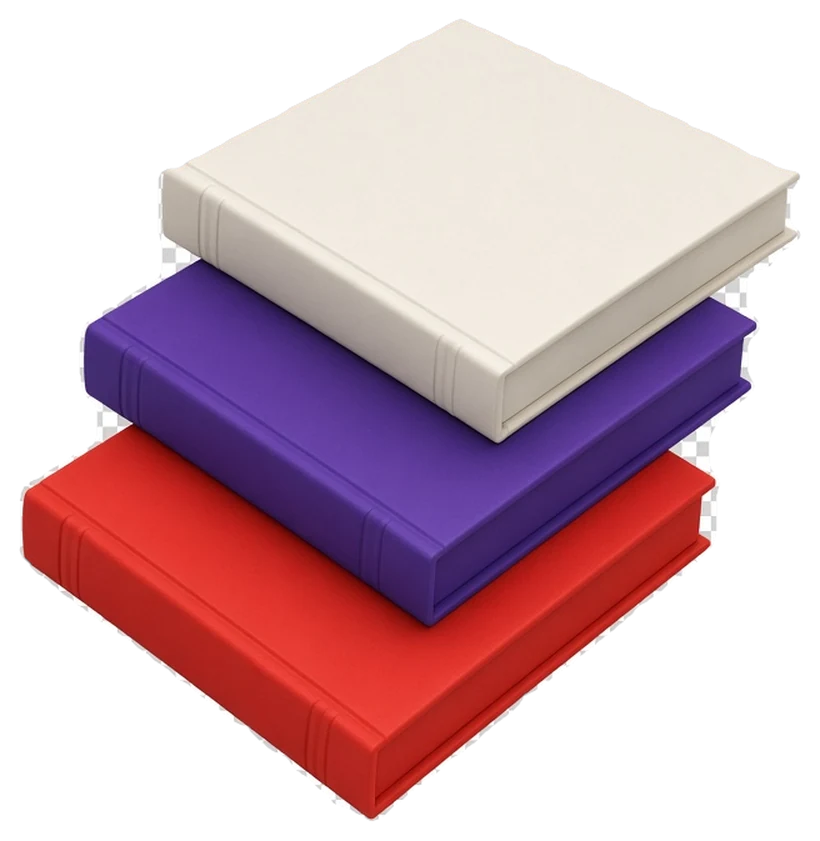
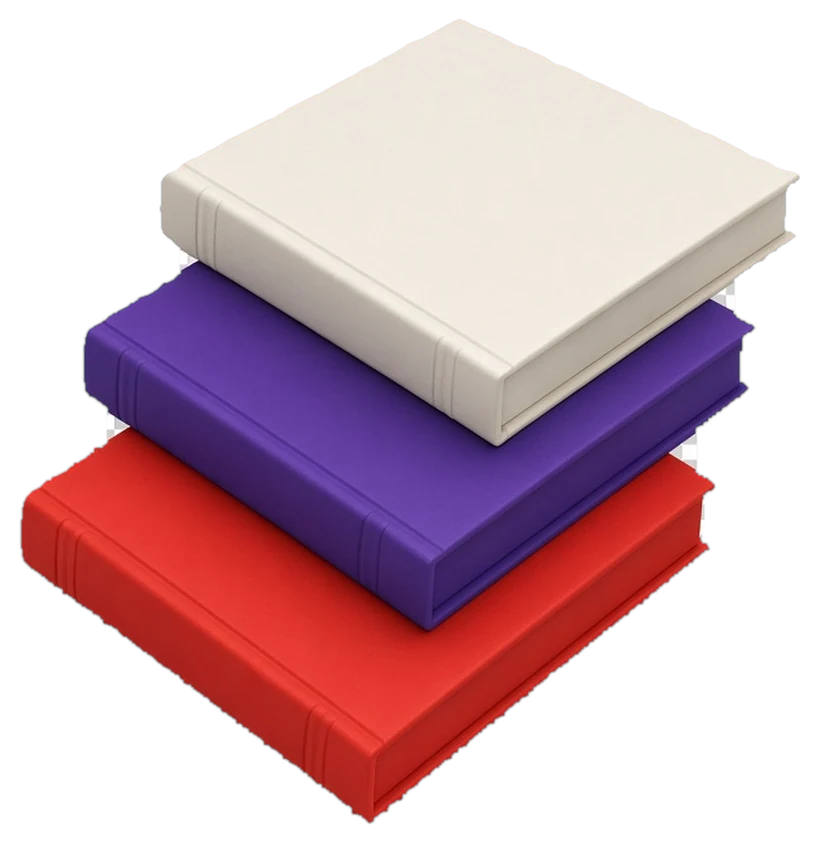
Clear the checker that clung to the outlines; drop fan-kit
A patch of checkerboard survived every test above and sat on the silhouette,
beside the bone-white parts where each test in turn loses its nerve. Near the
boundary the question can be settled on colour alone, with no reference to a
level, which is what makes it immune to the shadow that defeated the earlier
attempts: the checker is literally grey, and nothing rendered for this site
is. That clears the album stack and the photocard.

fan-kit ships no file and the guides index omits its header until a PNG with
real alpha arrives. This is not a tuning problem and public/img/README.md now
says why: its slogan flags nearly touch, so the background between them is a
sliver about thirty pixels wide against a checker whose square is twenty.
Every test in the script asks what a neighbourhood looks like, and in that
sliver the neighbourhood is mostly flag — the ratio test's window straddles,
the level test misses because the sliver is in the objects' own shadow, and
the periodicity test needs a full period either side with no room for one.
Cutting hard enough to clear the slivers ate the white flag and the
wristband's inner band instead, which is worse than the slivers.

The brief and the manifest entry stay. Drop the file in and the page takes it.

Claude-Session: https://claude.ai/code/session_01ULCv8PmLDXsrUfVrikvtqG

diff --git a/kpopgo/content/artwork.ts b/kpopgo/content/artwork.ts
@@ -117,7 +117,7 @@ export const artwork: ArtPiece[] = [
     id: "pc-foil",
     file: "pc-foil.webp",
     width: 720,
-    height: 1273,
+    height: 1286,
     alt: "A blank collectible card standing upright, its border a band of iridescent foil.",
     placement: "Home — beside the guides heading, where the photocard idea is introduced",
     prompt:
@@ -131,7 +131,7 @@ export const artwork: ArtPiece[] = [
     id: "lightstick",
     file: "lightstick.webp",
     width: 560,
-    height: 879,
+    height: 881,
     alt: "A generic concert lightstick — a translucent sphere glowing on a straight handle.",
     placement: "Home hero, lower right — the object that names the subject on sight",
     prompt:
@@ -146,7 +146,10 @@ export const artwork: ArtPiece[] = [
     width: 960,
     height: 620,
     alt: "A ticket with a perforated stub, a foil-edged collectible card, a string of slogan flags and a fabric wristband.",
-    placement: "Guides index — the header, standing for what a sale actually hands you",
+    placement:
+      "Guides index — the header, standing for what a sale actually hands you. " +
+      "No file: the flattened export could not be recovered (see public/img/README.md), " +
+      "and the page omits the header until a PNG with alpha arrives.",
     prompt:
       `${BASE} Subject: a flat lay of four blank fandom objects slightly overlapping — a ` +
       "long vermilion concert ticket with a perforated stub, a blank collectible card with " +
@@ -157,7 +160,7 @@ export const artwork: ArtPiece[] = [
     id: "album-stack",
     file: "album-stack.webp",
     width: 820,
-    height: 841,
+    height: 843,
     alt: "Three square album cases stacked at slight angles, in vermilion, violet and bone white.",
     placement: "Guide 05 — buying albums from overseas",
     prompt:

diff --git a/kpopgo/app/guides/page.tsx b/kpopgo/app/guides/page.tsx
@@ -1,7 +1,6 @@
 import type { Metadata } from "next";
 import Link from "next/link";
 import { guides } from "@/content/guides";
-import { Artwork } from "@/components/Artwork";
 import { VerifiedBadge } from "@/components/Badges";
 import { AdSlot } from "@/components/AdSlot";
 
@@ -24,11 +23,6 @@ export default function GuidesIndex() {
         Each one is a sequence you can follow start to finish, with the thing that actually
         goes wrong called out at every step.
       </p>
-
-      {/* What a sale actually hands you, in the site's own objects. */}
-      <div className="mx-auto mt-10 max-w-[480px] sm:mt-12">
-        <Artwork name="fan-kit" fallback={null} priority />
-      </div>
 
       <ul className="mt-12 grid gap-4 sm:grid-cols-2">
         {guides.map((g, i) => (

diff --git a/kpopgo/public/img/README.md b/kpopgo/public/img/README.md
@@ -8,10 +8,10 @@ back to the SVG when it is missing, so the site builds and ships either way.
 | --- | --- | --- |
 | `hero-stage.jpg` | 1800 × 1012 | Home hero — **in place** |
 | `band-crowd.jpg` | 1800 × 524 | Crowd band — **in place** |
-| `lightstick.webp` | 560 × 879 | Hero, laid over the photograph — **in place** |
-| `pc-foil.webp` | 720 × 1273 | Home, beside the guides heading — **in place** |
-| `fan-kit.webp` | 960 × 620 | Guides index header — **in place** |
-| `album-stack.webp` | 820 × 841 | Guide 05 — **in place** |
+| `lightstick.webp` | 560 × 881 | Hero, laid over the photograph — **in place** |
+| `pc-foil.webp` | 720 × 1286 | Home, beside the guides heading — **in place** |
+| `fan-kit.webp` | 960 × 620 | Guides index header — **not shipped**, see below |
+| `album-stack.webp` | 820 × 843 | Guide 05 — **in place** |
 | `guide-tickets.webp` | 720 × 420 | Guide 01 — **in place** |
 | `guide-nol.webp` | 720 × 590 | Guide 02 — **in place** |
 | `guide-presale.webp` | 720 × 409 | Guide 03 — still on the drawn fallback |
@@ -67,5 +67,22 @@ have to agree. That is strict enough to reject real checker where JPEG smeared
 a square boundary, so a third step removes the stranded crumbs by size:
 erode the object mask, then grow what survives back inside its own outline.
 
-So: export PNG with the alpha channel intact. Recovering it afterwards works,
-and it costs a morning each time it doesn't.
+Three of the four came back clean that way. The fourth, `fan-kit`, did not,
+and it is the case worth knowing because it is not a tuning problem.
+
+Its slogan flags nearly touch, so the background between them is a sliver
+about thirty pixels wide against a checker whose square is twenty. Every test
+in the script asks what a neighbourhood looks like, and in that sliver the
+neighbourhood is mostly flag. The ratio test needs a 25px window and so
+straddles; the level test misses because the sliver sits in the objects' own
+shadow; the periodicity test needs a full period either side and there is not
+room. Cutting hard enough to clear the slivers ate the bone-white flag and the
+wristband's inner band instead, which is worse.
+
+So `fan-kit` ships no file and the guides index omits its header until a PNG
+with real alpha arrives. The brief stays in `content/artwork.ts` and the entry
+stays in this table: drop the file in and the page picks it up.
+
+Which is the whole lesson. Export PNG with the alpha channel intact.
+Recovering it afterwards usually works, and when it doesn't it costs a day and
+still loses.
